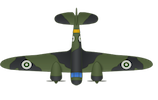
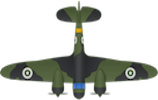
Enemy sub-classes now alerted to health change. Allows for graphics to change based on health!

Changed region(s): [[0.0, 0.0, 1.0, 1.0]]

diff --git a/AirCombat/Enemy.hpp b/AirCombat/Enemy.hpp
@@ -11,28 +11,16 @@ public:
     Enemy()=delete;
     Enemy(uint s, uint h);
 
-    //Decrease enemy's health
-    //Returns true if the enemy has been destroyed
-    bool decreaseHealth(uint d);
-
-    //Get enemy's stats
-    virtual uint getScoreValue() const = 0;
-
     //Get enemy's size
     virtual inline uint getWidth() const = 0;
     virtual inline uint getHeight() const = 0;
-
-    //Override the enemy's initial position
-    //If you chose to do so, override this with caution
-    //Otherwise, do not implement this function!
-    virtual void spawn();
 
     //Called by the game to spawn an enemy
     static Enemy* spawnEnemy();
 
 protected:
 
-    //Inherited pure virtual methods
+    //What to do while moving
     void afterMove();
     bool beforeMove();
 
@@ -42,6 +30,21 @@ public slots:
     void move();
 
 private:
+
+    //Override the enemy's initial position
+    //If you chose to do so, override this with caution
+    //Otherwise, do not implement this function!
+    virtual void spawn();
+
+    //Get enemy's stats
+    virtual uint getScoreValue() const = 0;
+
+    //Decrease enemy's health
+    //Returns true if the enemy has been destroyed
+    bool decreaseHealth(uint d);
+
+    //Alert the enemy that it is injured
+    virtual void healthChanged(uint h);
 
     //Check if the plane was hit
     bool checkHit();

diff --git a/AirCombat/Enemy.cpp b/AirCombat/Enemy.cpp
@@ -23,6 +23,9 @@ void Enemy::spawn() {}
 bool Enemy::decreaseHealth(uint d)
 { health -= d; return health <= 0; }
 
+//Default do nothing
+void Enemy::healthChanged(uint) {}
+
 //Check if the enemy was hit
 //If so, remove whatever you need
 bool Enemy::checkHit() {
@@ -55,6 +58,9 @@ bool Enemy::checkHit() {
         theGame->theScene->removeItem(toDelete[i]);
         delete toDelete[i];
     }
+
+    //Update the enemy sub-class
+    if (toDelete.size()) this->healthChanged(health);
 
     //If the enemy is still alive, return true
     if (!isDead) return true;

diff --git a/AirCombat/BasicEnemy.cpp b/AirCombat/BasicEnemy.cpp
@@ -21,6 +21,11 @@ BasicEnemy::BasicEnemy() : Enemy(Speed, Health) {
     setPixmap(QPixmap(":/images/images/BasicEnemy.png"));
 }
 
+
+//Redraw the enemy if needed
+void BasicEnemy::healthChanged(uint h)
+{ if (h <= Health/2) setPixmap(QPixmap(":/images/images/BasicEnemyInjured.png")); }
+
 //Return the enemy's width
 inline uint BasicEnemy::getWidth() const { return Width; }
 

diff --git a/AirCombat/Player.cpp b/AirCombat/Player.cpp
@@ -50,7 +50,7 @@ uint Player::getWidth() const { return Player::pixelWidth; }
 uint Player::getHeight() const { return Player::pixelHeight; }
 
 //If a button was pressed
-void Player::keyPressEvent(QKeyEvent *e) {}
+void Player::keyPressEvent(QKeyEvent *) {}
 
 #include <QDebug>
 void Player::mouseMoved(QPointF p) {

diff --git a/AirCombat/BasicEnemy.hpp b/AirCombat/BasicEnemy.hpp
@@ -13,6 +13,9 @@ public:
     //Returns stats
     uint getScoreValue() const;
 
+    //Redraw the enemy if needed
+    void healthChanged(uint h);
+
     //Return the enemy's size
     inline uint getWidth() const;
     inline uint getHeight() const;

diff --git a/AirCombat/AutoMove.hpp b/AirCombat/AutoMove.hpp
@@ -14,7 +14,7 @@ public:
     AutoMove()=delete;
     AutoMove(int s);
 
-public slots:
+private slots:
 
     //Move
     void move();
